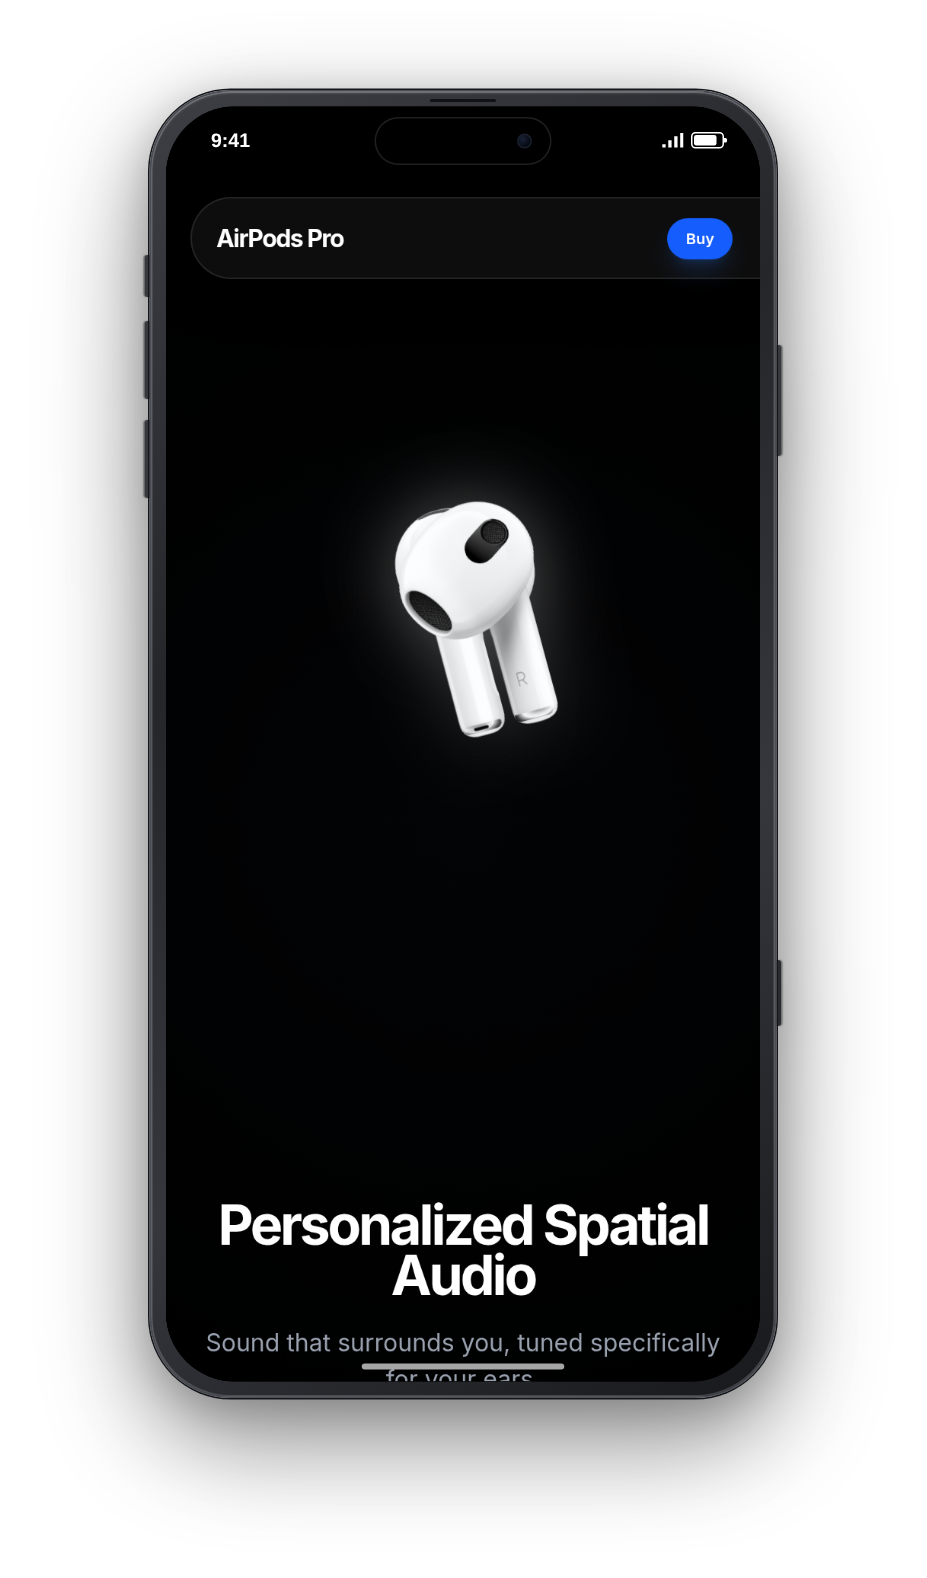
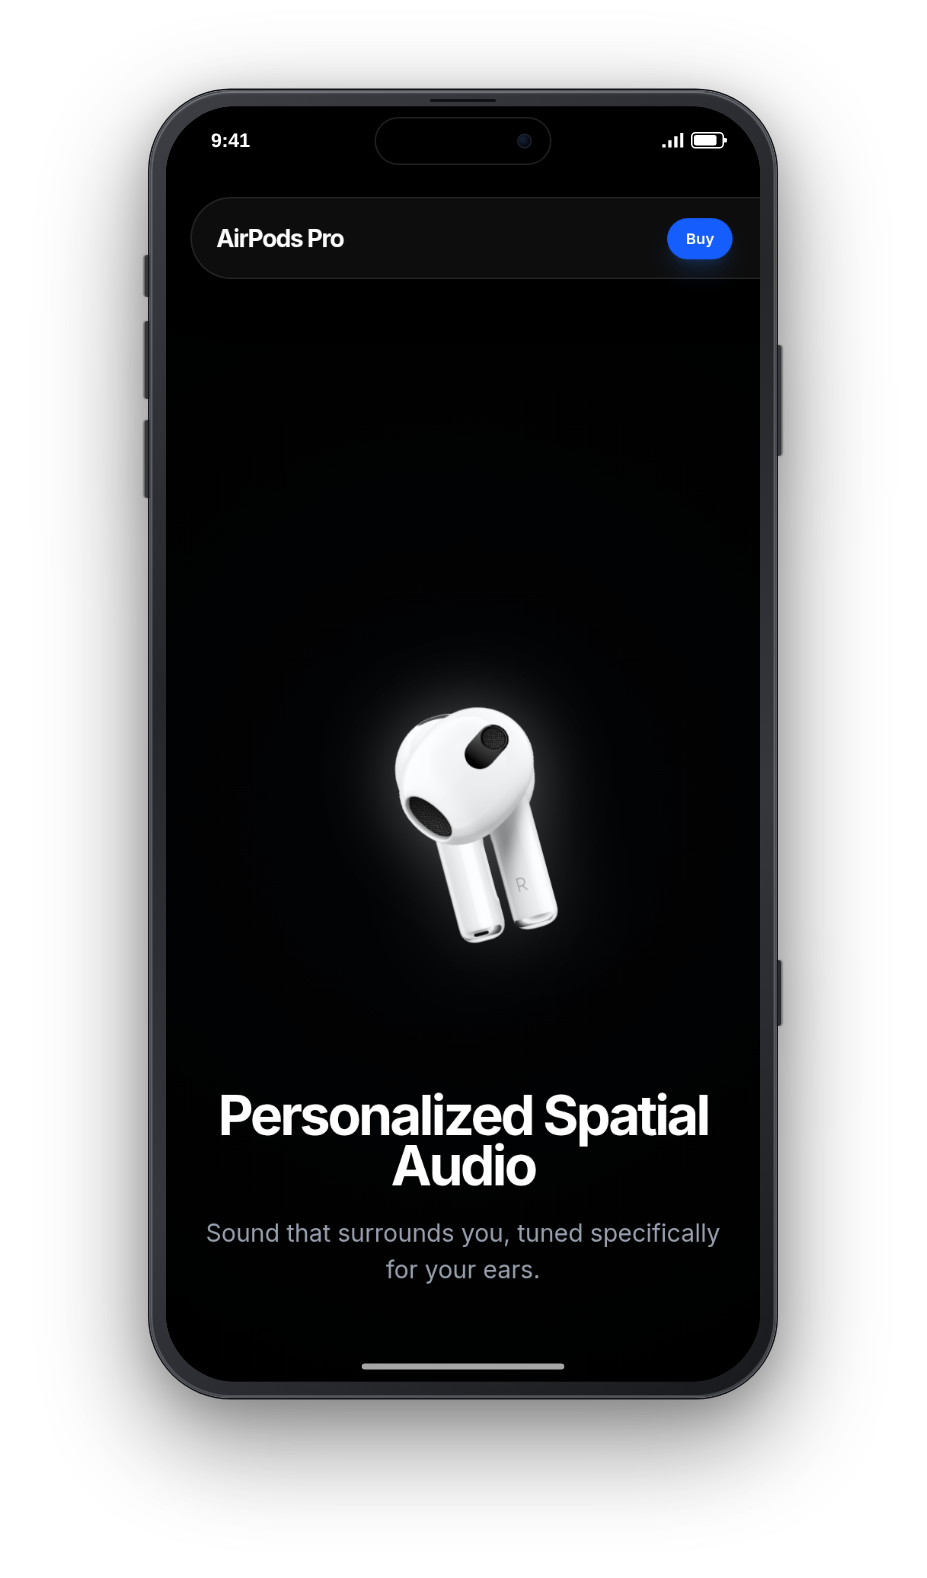
fix(mobile): optimize Spatial Audio layout gap and vertical alignment

Changed region(s): [[0.2114, 0.6831, 0.7853, 0.8695], [0.3927, 0.3105, 0.6041, 0.621]]

diff --git a/src/App.tsx b/src/App.tsx
@@ -97,7 +97,7 @@ export default function App() {
       .to({}, { duration: 2 }) // Hold feature 1
       .to(".airpods-main", {
         x: isMobile ? "0%" : "-30%", // Adjusted x for larger scale
-        y: isMobile ? "-20vh" : "0%", // Slightly down for better centering on mobile
+        y: isMobile ? "-4vh" : "0%", // Centered vertically above text on mobile
         scale: featureScale,
         rotate: -15,
         duration: 3 // Slower transition to feature 2
@@ -332,7 +332,7 @@ export default function App() {
               <p className="text-base md:text-lg lg:text-2xl text-gray-400">Up to 2x more noise cancellation than the previous generation.</p>
             </div>
 
-            <div className="feature-2 opacity-0 translate-x-20 absolute bottom-10 md:bottom-1/4 left-6 right-6 md:left-auto md:right-20 max-w-3xl text-center md:text-right">
+            <div className="feature-2 opacity-0 translate-x-20 absolute bottom-28 md:bottom-1/4 left-6 right-6 md:left-auto md:right-20 max-w-3xl text-center md:text-right">
               <h3 className="text-4xl md:text-5xl lg:text-8xl font-bold tracking-tighter mb-4 leading-[0.9]">Personalized <br className="hidden md:block" /> Spatial Audio</h3>
               <p className="text-base md:text-lg lg:text-2xl text-gray-400">Sound that surrounds you, tuned specifically for your ears.</p>
             </div>
